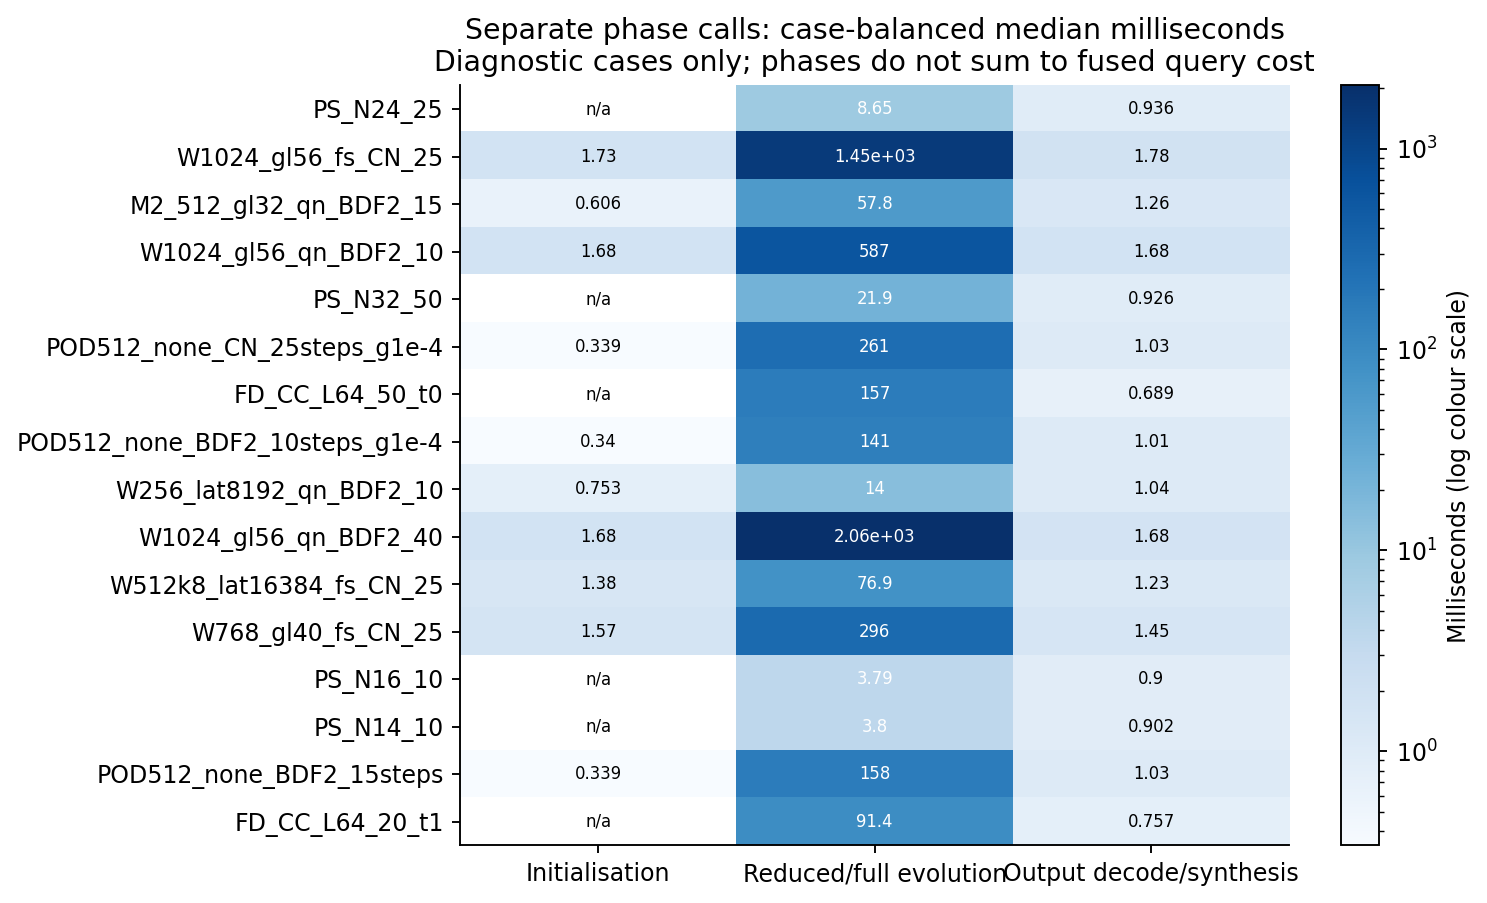
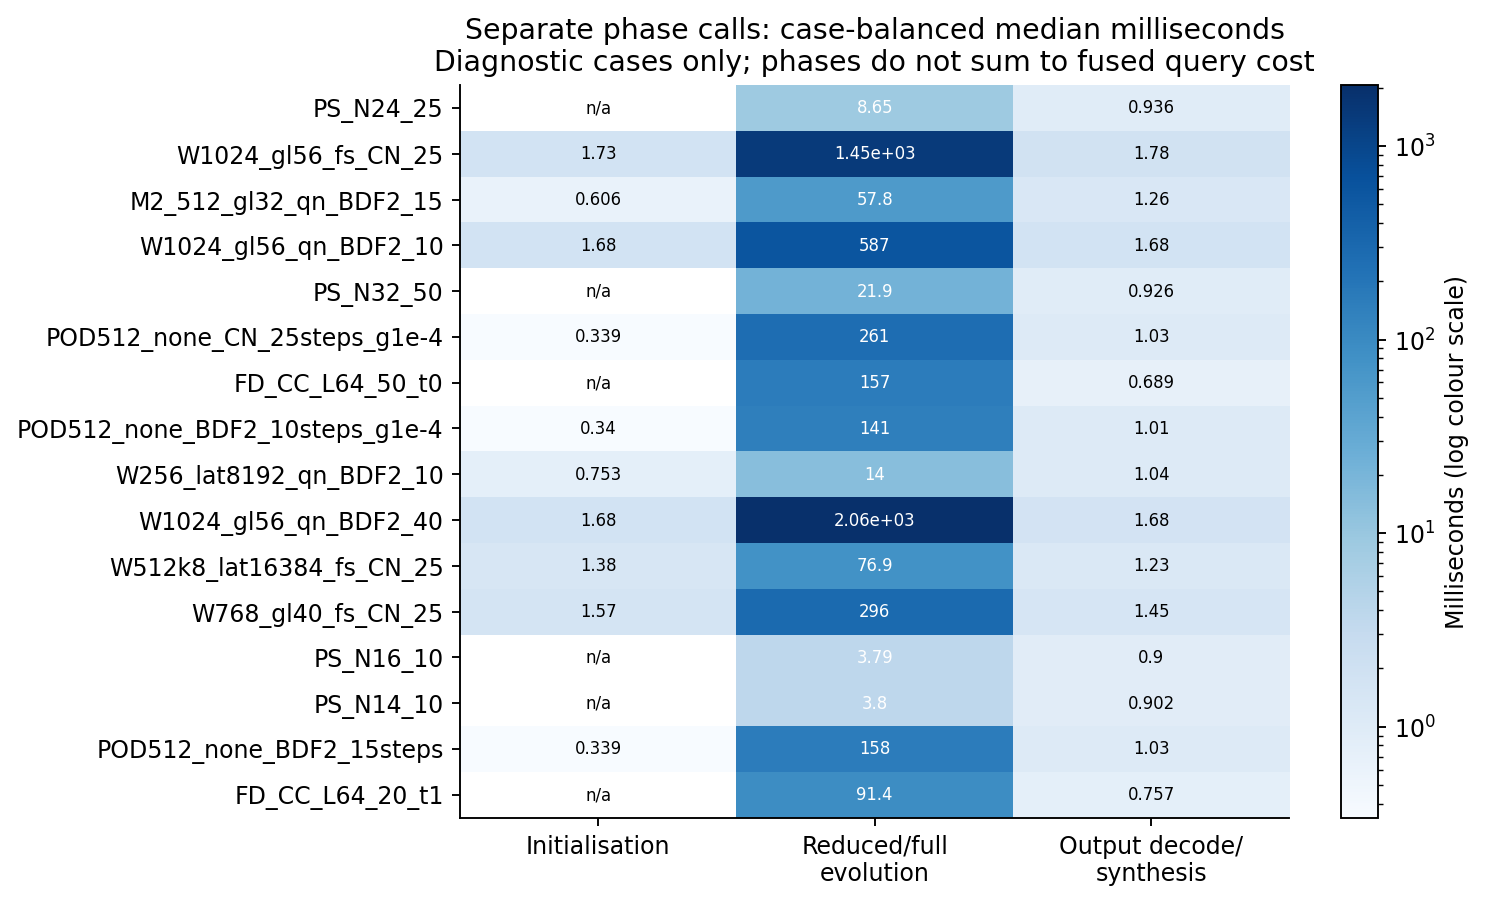
mirror of 77ad74a03: Finalize reviewed report labels and publication gates

diff --git a/reports/2026-10-26-burgers3d-refinement/frontier_report.py b/reports/2026-10-26-burgers3d-refinement/frontier_report.py
@@ -96,7 +96,7 @@ def components(doc, table, save):
             x = matrix[i, j]
             ax.text(j, i, 'n/a' if np.isnan(x) else f'{x:.3g}', ha='center', va='center', fontsize=7,
                     color='white' if np.isfinite(x) and x > np.nanmedian(matrix)*2 else 'black')
-    ax.set(xticks=range(3), xticklabels=['Initialisation', 'Reduced/full evolution', 'Output decode/synthesis'],
+    ax.set(xticks=range(3), xticklabels=['Initialisation', 'Reduced/full\nevolution', 'Output decode/\nsynthesis'],
            yticks=range(len(phase_values)), yticklabels=list(phase_values),
            title='Separate phase calls: case-balanced median milliseconds\nDiagnostic cases only; phases do not sum to fused query cost')
     fig.colorbar(im, ax=ax, label='Milliseconds (log colour scale)'); save(fig, 'query_components')
@@ -434,7 +434,9 @@ def render(doc, figdir, table, save, reference):
             assert np.isclose(entry['worst_error'], source_summary['worst_error'], rtol=1e-12)
         full_solver = entry['method'] in ['Spectral FOM', 'Finite-difference FOM']
         q2_label = 'n/a' if q['Q2'].get('applicability') else str(q2)
-        check_label = f'stage-valid={q1}; Q2={q2_label}' if full_solver else f'Q1={q1}; Q2={q2_label}'
+        check_label = (f'finite/port={q1}; Q2={q2_label}' if entry['method'] == 'Spectral FOM' else
+                       f'stage-converged={q1}; Q2={q2_label}' if entry['method'] == 'Finite-difference FOM' else
+                       f'Q1={q1}; Q2={q2_label}')
         table_rows.append([subject_id, entry['method'], q['status'], check_label, common,
             'missing' if not complete_scores else f"{100*entry['median_error']:.6g}",
             'missing' if not complete_scores else f"{100*entry['worst_error']:.6g}",
@@ -528,8 +530,9 @@ The extra POD gradient threshold is not equivalent to the bank advection-rho thr
 All preregistered verdicts remain unchanged. A POD point that passes the common checks but
 fails its extra conservative gate remains visible as descriptive evidence; its exclusion
 cannot be used to claim a bank advantage over tuned POD. Unqualified points are retained.
-Full solvers use their declared stage-validity/convergence checks; they do not receive ROM
-tight/tighter-anchor certification, and quadrature qualification is not applicable to them.
+Spectral full solvers use finite-output and pinned implementation-port checks; finite-difference
+full solvers use stage convergence/completeness. They do not receive ROM tight/tighter-anchor
+certification, and quadrature qualification is not applicable to them.
 Unsampled POD restricts the trial state to the frozen POD span and minimises the full
 central finite-difference residual norm; it does not first Galerkin-project that residual.
 Whiskers show conditional reference-error intervals; lower endpoints at zero are omitted

diff --git a/reports/2026-10-26-burgers3d-refinement/mesh_report.py b/reports/2026-10-26-burgers3d-refinement/mesh_report.py
@@ -279,9 +279,13 @@ for conditional reference uncertainty only. They are not deployment-cost measure
                 'unavailable' if peak is None else f'{peak/1e9:.6g}'])
     text += table(['Setup level', 'Bank', 'Base data nodes', 'Rule', 'Intervention', 'Seconds',
                    'Current-memory change (GB)', 'Whole-job peak so far (GB)'], setup_rows) + '\n\n'
-    projection_rows = [[key, f"{v['common65_distance']:.7g}", v.get('baseline', v.get('held_projection', 'see contract'))]
+    projection_rows = [[key, f"{v['common65_distance']:.7g}",
+                        'same M2 bank: native65 projection (diagnostic)' if key.startswith('M2_native129_') else
+                        v.get('baseline', v.get('held_projection', 'see contract'))]
                        for key, v in doc['initial_projection_differences'].items()]
     text += table(['Initial-projection comparison', 'Common-lattice field distance', 'Projection baseline/scope'], projection_rows) + '\n\n'
+    text += ('The raw M2 records inherit a W1024-only held-projection label. The table corrects that '
+             'description to the actual same-M2 native-projection comparison; raw data and numeric values remain unchanged.\n\n')
     text += ('Shared assembly prepares both meshes; incremental setup is additional rule/operator work. '
              'Base data nodes identify the runner data structure; a held-projection control can use finer-mesh matrices with the original base data. '
              'The assembly table excludes compilation and warm-up, which are listed separately for timed target queries above. '

diff --git a/reports/2026-10-26-burgers3d-refinement/make_report.py b/reports/2026-10-26-burgers3d-refinement/make_report.py
@@ -876,7 +876,7 @@ the prescribed code-only mirror. Full numerical reruns use each lane's frozen ma
 - Device output: fully computed fields resident on the GPU; host transfer, scoring and saving are separate work.
 - GPU-hour: allocated GPU count multiplied by elapsed hours, including failed jobs; it is separate from measured online query cost.
 - Phase: a separately measured part of a query; separate calls are not assumed additive to fused-query cost.
-- Q1: nonlinear-solver validity, stationarity and agreement with tighter solves.
+- Q1: bank/POD nonlinear validity, stationarity and tighter-solve agreement; full-solver checks instead use their explicitly labelled finite/port or stage-convergence rules.
 - Q2: quadrature successor and own-state nonlinear agreement, with the finer rule checked too.
 - Mesh Q2 scope: successor field agreement on the common scoring lattice; growing-output native solve checks do not provide a finer-native-grid E0 reference certificate.
 - Rho: relative change in the projected nonlinear term when the integration rule is refined at the same returned state.

diff --git a/reports/2026-10-26-burgers3d-refinement/2026-10-27-burgers3d-refinement.md b/reports/2026-10-26-burgers3d-refinement/2026-10-27-burgers3d-refinement.md
@@ -140,22 +140,22 @@ Frontier job **6533177**, GPU `['NVIDIA H200, GPU-fd4f0a46-c358-45d3-3aa1-bffac2
 
 | Subject | Method | Qualification status | Registered checks | Method common check | Median E0 error (%) | Worst E0 error (%) | Cases above 1% | Descriptor total (ms) | Prepared native (ms) |
 | --- | --- | --- | --- | --- | --- | --- | --- | --- | --- |
-| PS_N24_25 | Spectral FOM | qualified | stage-valid=True; Q2=n/a | True | 0.00272036 | 0.772672 | 0 | 21.2488 | 8.11984 |
+| PS_N24_25 | Spectral FOM | qualified | finite/port=True; Q2=n/a | True | 0.00272036 | 0.772672 | 0 | 21.2488 | 8.11984 |
 | W1024_gl56_fs_CN_25 | Bank ROM | qualified | Q1=True; Q2=True | True | 0.120231 | 5.58172 | 4 | 1314.35 | 1308.12 |
 | M2_512_gl32_qn_BDF2_15 | Bank ROM | qualified | Q1=True; Q2=True | True | 1.04467 | 4.24121 | 35 | 55.7807 | 48.6657 |
 | W1024_gl56_qn_BDF2_10 | Bank ROM | qualified | Q1=True; Q2=True | True | 2.03738 | 4.37906 | 58 | 542.439 | 535.368 |
-| PS_N32_50 | Spectral FOM | qualified | stage-valid=True; Q2=n/a | True | 0.0025563 | 0.260652 | 0 | 38.5696 | 21.5664 |
+| PS_N32_50 | Spectral FOM | qualified | finite/port=True; Q2=n/a | True | 0.0025563 | 0.260652 | 0 | 38.5696 | 21.5664 |
 | POD512_none_CN_25steps_g1e-4 | POD | qualified | Q1=True; Q2=n/a | True | 0.294234 | 2.28065 | 9 | 189.718 | 182.858 |
-| FD_CC_L64_50_t0 | Finite-difference FOM | qualified | stage-valid=True; Q2=n/a | True | 0.160747 | 0.817141 | 0 | 103.115 | 95.2785 |
+| FD_CC_L64_50_t0 | Finite-difference FOM | qualified | stage-converged=True; Q2=n/a | True | 0.160747 | 0.817141 | 0 | 103.115 | 95.2785 |
 | POD512_none_BDF2_10steps_g1e-4 | POD | qualified | Q1=True; Q2=n/a | True | 2.06358 | 4.57837 | 61 | 128.828 | 122.023 |
 | W256_lat8192_qn_BDF2_10 | Bank ROM | qualified | Q1=True; Q2=True | True | 2.07876 | 5.85715 | 61 | 17.7778 | 10.857 |
 | W1024_gl56_qn_BDF2_40 | Bank ROM | qualified | Q1=True; Q2=True | True | 0.179969 | 5.59007 | 3 | 2062.75 | 2056.51 |
 | W512k8_lat16384_fs_CN_25 | Bank ROM | qualified | Q1=True; Q2=True | True | 0.205405 | 3.13723 | 9 | 79.8898 | 73.1825 |
 | W768_gl40_fs_CN_25 | Bank ROM | qualified | Q1=True; Q2=True | True | 0.157965 | 7.16593 | 5 | 277.756 | 271.096 |
-| PS_N16_10 | Spectral FOM | qualified | stage-valid=True; Q2=n/a | True | 0.0416221 | 2.55336 | 5 | 12.596 | 3.21523 |
-| PS_N14_10 | Spectral FOM | qualified | stage-valid=True; Q2=n/a | True | 0.0676794 | 3.60287 | 5 | 11.7152 | 3.3026 |
+| PS_N16_10 | Spectral FOM | qualified | finite/port=True; Q2=n/a | True | 0.0416221 | 2.55336 | 5 | 12.596 | 3.21523 |
+| PS_N14_10 | Spectral FOM | qualified | finite/port=True; Q2=n/a | True | 0.0676794 | 3.60287 | 5 | 11.7152 | 3.3026 |
 | POD512_none_BDF2_15steps | POD | qualified | Q1=True; Q2=n/a | True | 1.09592 | 3.22085 | 36 | 122.437 | 115.471 |
-| FD_CC_L64_20_t1 | Finite-difference FOM | qualified | stage-valid=True; Q2=n/a | True | 0.467289 | 1.1603 | 3 | 51.6004 | 43.987 |
+| FD_CC_L64_20_t1 | Finite-difference FOM | qualified | stage-converged=True; Q2=n/a | True | 0.467289 | 1.1603 | 3 | 51.6004 | 43.987 |
 
 The actual adapter settings below make the finite comparison explicit. The PS identifier's N is its sine cutoff, retaining indices below N in each axis; it is not the mesh-study node count. Further frozen parameters and source hashes remain in the dataset.
 
@@ -208,8 +208,9 @@ The extra POD gradient threshold is not equivalent to the bank advection-rho thr
 All preregistered verdicts remain unchanged. A POD point that passes the common checks but
 fails its extra conservative gate remains visible as descriptive evidence; its exclusion
 cannot be used to claim a bank advantage over tuned POD. Unqualified points are retained.
-Full solvers use their declared stage-validity/convergence checks; they do not receive ROM
-tight/tighter-anchor certification, and quadrature qualification is not applicable to them.
+Spectral full solvers use finite-output and pinned implementation-port checks; finite-difference
+full solvers use stage convergence/completeness. They do not receive ROM tight/tighter-anchor
+certification, and quadrature qualification is not applicable to them.
 Unsampled POD restricts the trial state to the frozen POD span and minimises the full
 central finite-difference residual norm; it does not first Galerkin-project that residual.
 Whiskers show conditional reference-error intervals; lower endpoints at zero are omitted
@@ -632,10 +633,10 @@ for conditional reference uncertainty only. They are not deployment-cost measure
 
 | Initial-projection comparison | Common-lattice field distance | Projection baseline/scope |
 | --- | --- | --- |
-| M2_native129_c0 | 2.126581e-06 | native65 for W1024 operator interventions |
-| M2_native129_c5 | 2.128081e-06 | native65 for W1024 operator interventions |
-| M2_native129_c30 | 1.636706e-06 | native65 for W1024 operator interventions |
-| M2_native129_c43 | 8.791163e-07 | native65 for W1024 operator interventions |
+| M2_native129_c0 | 2.126581e-06 | same M2 bank: native65 projection (diagnostic) |
+| M2_native129_c5 | 2.128081e-06 | same M2 bank: native65 projection (diagnostic) |
+| M2_native129_c30 | 1.636706e-06 | same M2 bank: native65 projection (diagnostic) |
+| M2_native129_c43 | 8.791163e-07 | same M2 bank: native65 projection (diagnostic) |
 | 65_mf_c0 | 0 | N65 fixed-Gauss projection |
 | 65_mf_c5 | 0 | N65 fixed-Gauss projection |
 | 65_mf_c30 | 0 | N65 fixed-Gauss projection |
@@ -656,6 +657,8 @@ for conditional reference uncertainty only. They are not deployment-cost measure
 | W1024_native129_c5 | 3.422765e-06 | native65 for W1024 operator interventions |
 | W1024_native129_c30 | 2.911357e-06 | native65 for W1024 operator interventions |
 | W1024_native129_c43 | 1.186191e-06 | native65 for W1024 operator interventions |
+
+The raw M2 records inherit a W1024-only held-projection label. The table corrects that description to the actual same-M2 native-projection comparison; raw data and numeric values remain unchanged.
 
 Shared assembly prepares both meshes; incremental setup is additional rule/operator work. Base data nodes identify the runner data structure; a held-projection control can use finer-mesh matrices with the original base data. The assembly table excludes compilation and warm-up, which are listed separately for timed target queries above. The peak counter accumulates through the entire job, so it is not standalone method memory. Native-projection differences above are reported separately and are not inserted into the held-projection operator controls. Exact matrix/weight hashes, projection geometry and all raw repetitions remain in the frozen dataset.
 
@@ -929,7 +932,7 @@ the prescribed code-only mirror. Full numerical reruns use each lane's frozen ma
 - Device output: fully computed fields resident on the GPU; host transfer, scoring and saving are separate work.
 - GPU-hour: allocated GPU count multiplied by elapsed hours, including failed jobs; it is separate from measured online query cost.
 - Phase: a separately measured part of a query; separate calls are not assumed additive to fused-query cost.
-- Q1: nonlinear-solver validity, stationarity and agreement with tighter solves.
+- Q1: bank/POD nonlinear validity, stationarity and tighter-solve agreement; full-solver checks instead use their explicitly labelled finite/port or stage-convergence rules.
 - Q2: quadrature successor and own-state nonlinear agreement, with the finer rule checked too.
 - Mesh Q2 scope: successor field agreement on the common scoring lattice; growing-output native solve checks do not provide a finer-native-grid E0 reference certificate.
 - Rho: relative change in the projected nonlinear term when the integration rule is refined at the same returned state.

diff --git a/reports/2026-10-26-burgers3d-refinement/HANDOFF.md b/reports/2026-10-26-burgers3d-refinement/HANDOFF.md
@@ -36,7 +36,7 @@ predeclared campaign cap 12; live jobs are listed explicitly and are not counted
 | pod | none64 | 6525585 | COMPLETED | 0.0591667 |
 | pod | k16fine01 | 6529465 | COMPLETED_FAILED_HR_ADMISSION | 0.0213889 |
 
-Foreground queue check at `2026-10-27T05:24:46.227093+00:00`: `[]`.
+Foreground queue check at `2026-10-27T05:30:46.487534+00:00`: `[]`.
 Live job ids absent from the source lane ledgers: `[]`. Any such lag is explicit;
 active allocation costs are still unaccounted rather than zero.
 
